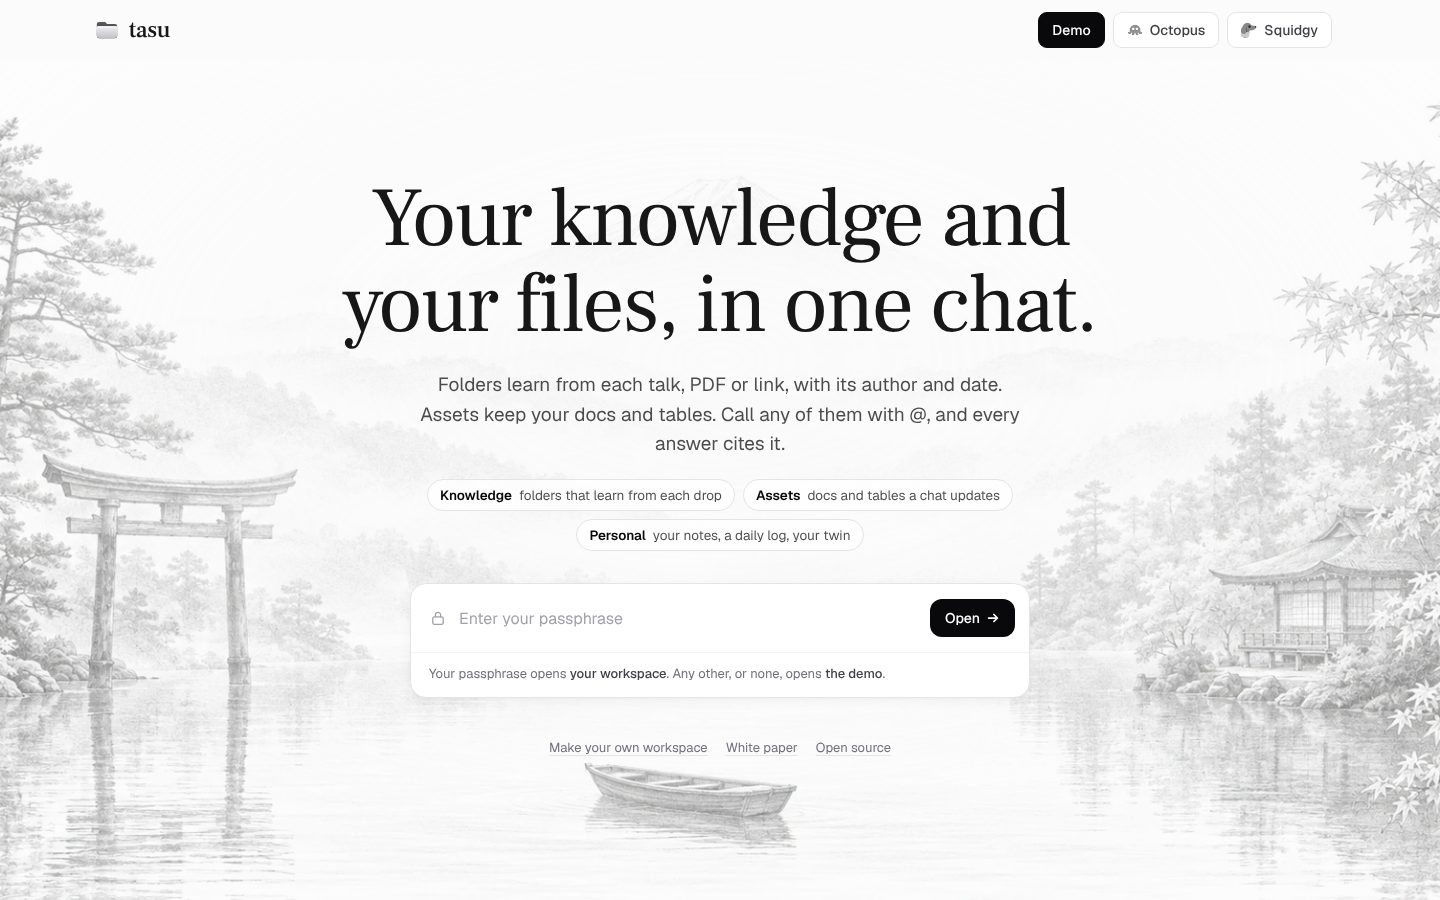
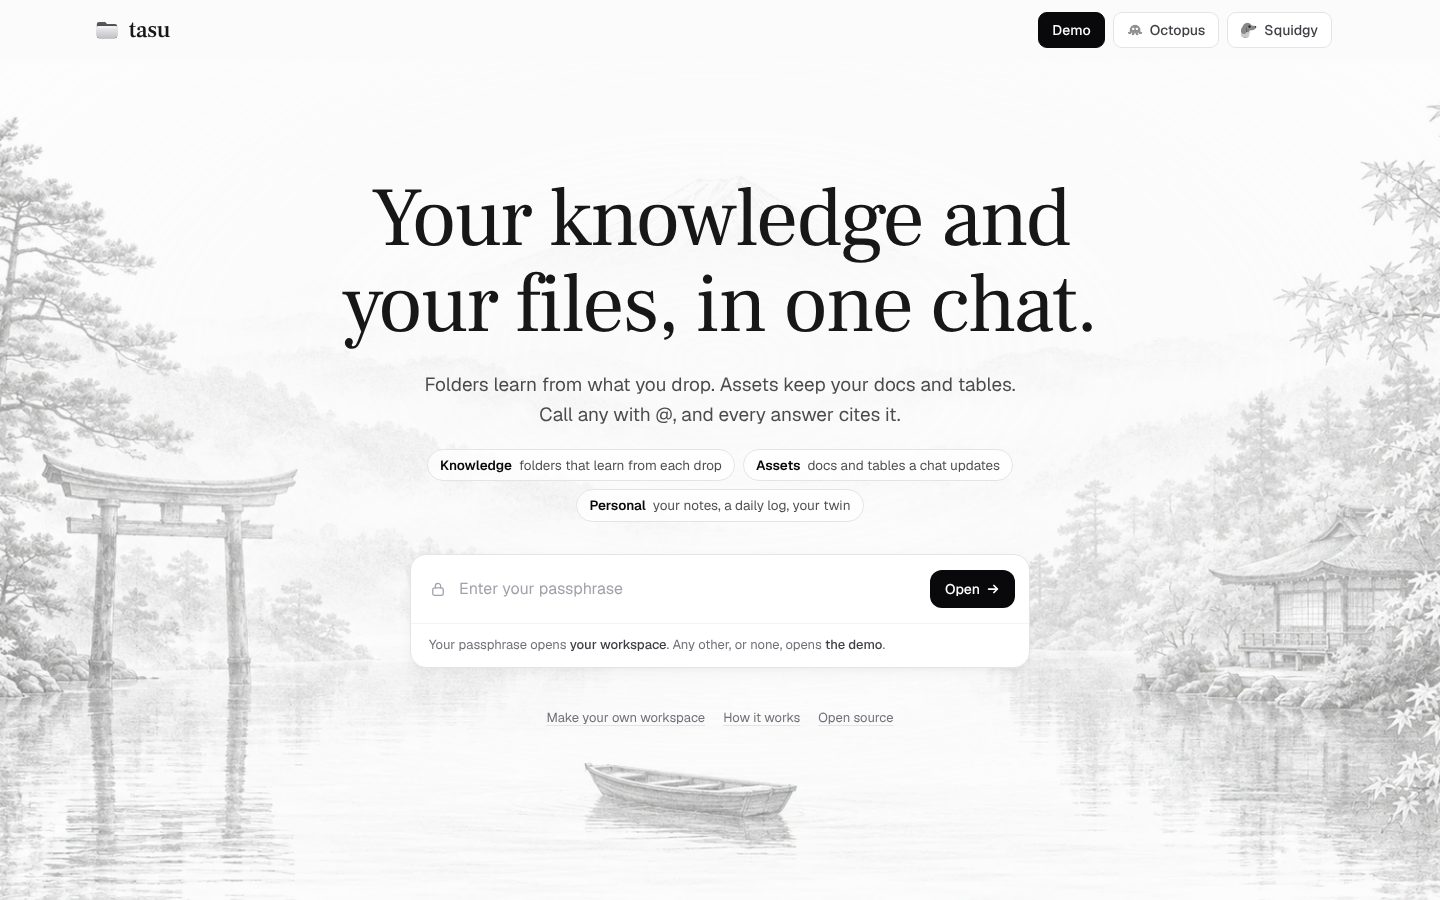
Landing and About page: assets, the personal folder, categories
Landing: a shorter sub line, the three tags open their part of How it works,
and White paper reads How it works. About: a new title, Figure 1 with
categories and assets, an Assets section, a personal folder section, Whisper
voice, answers in the language asked, the video script, 30 tables, 1,995 checks.

Claude-Session: https://claude.ai/code/session_01NRWPtT3uQhafrf1yBXPVRY

Changed region(s): [[0.2812, 0.4044, 0.7188, 0.6222], [0.3125, 0.6222, 0.625, 0.84], [0.625, 0.6222, 0.7188, 0.7467]]

diff --git a/app/about.html b/app/about.html
@@ -4,10 +4,10 @@
 <meta charset="utf-8">
 <meta name="viewport" content="width=device-width, initial-scale=1, viewport-fit=cover">
 <title>Tasu: the white paper</title>
-<meta name="description" content="How Tasu compiles the sources you trust into positions you can question: the model, Drop, Ask, clashes, the limits that keep it fast, and who holds your data.">
+<meta name="description" content="How Tasu compiles the sources you trust into positions you can question: the model, Drop, Ask, assets, the personal folder, clashes, the limits that keep it fast, and who holds your data.">
 <meta name="theme-color" content="#fafafa">
 <meta property="og:title" content="Tasu: the white paper">
-<meta property="og:description" content="The model, the two pipelines, and the limits that keep a folder fast at any size.">
+<meta property="og:description" content="The model, the two pipelines, assets, the personal folder, and the limits that keep a folder fast at any size.">
 <meta property="og:image" content="https://tasu.ai/og.jpg?v=2">
 <meta property="og:url" content="https://tasu.ai/about">
 <meta name="twitter:card" content="summary_large_image">
@@ -92,6 +92,7 @@
   figcaption b{ color:var(--ice-70); font-weight:600; }
 
   /* The model, one level inside the next. */
+  .tree + .tree{ margin-top:8px; }
   .tree{ display:flex; flex-wrap:wrap; align-items:center; gap:8px; padding:18px; border-radius:18px; border:1px solid var(--line); background:var(--card); }
   .tree span{ padding:7px 12px; border-radius:10px; border:1px solid var(--line-2); font-size:14px; font-weight:600; color:var(--ice); background:var(--ink-2); }
   .tree i{ font-style:normal; color:var(--ice-45); }
@@ -176,13 +177,14 @@
 
 <main class="paper">
   <p class="kicker">White paper</p>
-  <h1>Tasu: the knowledge you choose, <em>organized.</em></h1>
-  <p class="meta"><span>Jeremy Lasne</span><span>September 2026</span><span>Version 1.0</span></p>
+  <h1>Tasu: your knowledge and your files, <em>in one chat.</em></h1>
+  <p class="meta"><span>Jeremy Lasne</span><span>October 2026</span><span>Version 1.1</span></p>
 
   <div class="abstract">
     <b>Abstract</b>
     <p>Tasu turns the sources you trust into positions you can question. Each source is read once. Its ideas are filed under concepts, and every claim carries an author and a date.
-      A question reads those compiled concepts and names who said what. This paper describes the model, the two pipelines, how clashes get settled, and the limits that keep a brain fast at any size.</p>
+      A question reads those compiled concepts and names who said what. Assets keep your documents and tables beside them, and a personal folder keeps your own words.
+      This paper describes the model, the two pipelines, the assets, the personal folder, how clashes get settled, and the limits that keep a brain fast at any size.</p>
   </div>
 
   <nav class="toc" aria-label="Contents">
@@ -192,6 +194,8 @@
       <li><a href="#model">The model</a></li>
       <li><a href="#drop">Drop</a></li>
       <li><a href="#ask">Ask</a></li>
+      <li><a href="#assets">Assets</a></li>
+      <li><a href="#personal">The personal folder</a></li>
       <li><a href="#clashes">Clashes</a></li>
       <li><a href="#fast">Why it stays fast</a></li>
       <li><a href="#guarantees">Guarantees</a></li>
@@ -222,19 +226,24 @@
 
   <section id="model">
     <h2>The model</h2>
-    <p>Five things make up a brain.</p>
+    <p>Seven things make up a workspace.</p>
     <figure>
-      <div class="tree" aria-label="Workspace, then brain, then concept, then evidence, fed by sources">
-        <span>Workspace</span><i>›</i><span>Folder</span><i>›</i><span>Concept</span><i>›</i><span>Evidence</span><i>‹</i><span class="src">Source</span>
+      <div class="tree" aria-label="Workspace, then category, then folder, then concept, then evidence, fed by sources; a category also holds assets">
+        <span>Workspace</span><i>›</i><span>Category</span><i>›</i><span>Folder</span><i>›</i><span>Concept</span><i>›</i><span>Evidence</span><i>‹</i><span class="src">Source</span>
       </div>
-      <figcaption><b>Figure 1.</b> Each level holds the next. Sources feed evidence into concepts, in any brain of the workspace.</figcaption>
+      <div class="tree" aria-label="A category also holds assets, each made of sections or rows">
+        <span>Category</span><i>›</i><span>Asset</span><i>›</i><span>Section or row</span>
+      </div>
+      <figcaption><b>Figure 1.</b> Each level holds the next. Sources feed evidence into concepts, in any folder of the workspace. Assets are kept as they are.</figcaption>
     </figure>
     <ul>
-      <li><b>Workspace.</b> Holds brains and chats. It sees nothing of the other workspaces.</li>
+      <li><b>Workspace.</b> Holds folders, assets and chats. It sees nothing of the other workspaces.</li>
+      <li><b>Category.</b> A name such as Wealth or Business. Each folder and each asset sits in one, or in none. One click on a category asks all it holds.</li>
       <li><b>Folder.</b> A subject such as Health, a person whose views are dated so drift shows, or a personal folder that keeps your own words. Each folder has a one-line scope.</li>
       <li><b>Concept.</b> One idea with one position. It holds a summary line, its evidence, its data points, its open clashes and its links.</li>
       <li><b>Evidence.</b> One claim: its date, its author, the claim in a sentence, and the source it came from.</li>
       <li><b>Source.</b> A link, a title, an author, a date and the brains it fed. Its note keeps the extraction: topics, figures and exact quotes. The raw text stays out.</li>
+      <li><b>Asset.</b> A document, a table, a page or a web page you keep whole. A chat reads it and proposes changes. It feeds no concept.</li>
     </ul>
     <figure>
       <article class="concept">
@@ -303,8 +312,41 @@
       </div>
       <figcaption><b>Figure 3.</b> An answer in its shape. The names and figures are placeholders.</figcaption>
     </figure>
-    <p>You can also talk. A mic next to send uses the free speech service built into Safari on iPhone and Mac, Chrome and Edge, and writes your words as you speak.</p>
-    <p>The brains are written in English, and answers come back in English. A question in another language still finds its concepts, because routing works on meaning and the search terms are translated.</p>
+    <p>You can also talk. A mic next to send writes your words with Whisper large-v3 turbo, in 27 languages, for about $0.04 an hour of talking. The browser's free voice input stays one tap away in Settings.</p>
+    <p>The brains are written in English. Answers come back in the language of the question, or in English when Settings says so. A question in another language still finds its concepts, because routing works on meaning and the search terms are translated.</p>
+    <p>A chat reads what you pick: folders and assets ticked in the side list or the chat bar, a whole category, or names typed after @, such as <code>@Pricing</code>, <code>@cm-deal</code> or <code>@All Wealth</code>.</p>
+  </section>
+
+  <section id="assets">
+    <h2>Assets</h2>
+    <p>An asset is a file you keep whole: a Word, PDF, text, Markdown, HTML, Excel or CSV file up to 30 MB, a web page read from its link, or a blank document, page or table. Files are read in your browser.</p>
+    <div class="tw"><table>
+      <thead><tr><th>Asset</th><th>Read whole up to</th><th>Past that</th></tr></thead>
+      <tbody>
+        <tr><td>Table</td><td>120,000 characters, about 300 rows of 30 columns</td><td>A filter and totals run over every row, up to 40,000 rows</td></tr>
+        <tr><td>Document</td><td>60,000 characters, about 20 pages</td><td>The 8 sections that bear on the question, up to 4,000 pages</td></tr>
+        <tr><td>Web page</td><td>60,000 characters</td><td>Read again in one tap</td></tr>
+      </tbody>
+    </table></div>
+    <ul>
+      <li><b>Nothing changes without you.</b> A chat proposes a change with the words before and after, or a new asset with what it will hold. Apply, Turn down, then Undo.</li>
+      <li><b>Versions.</b> A file dropped under a name an asset holds becomes its new version. The one before is kept for Undo, and keeps its category.</li>
+      <li><b>A text, written out.</b> A pitch, an email or a plan asked of an asset comes back whole in the answer, ready to copy.</li>
+      <li><b>Up to 4 in one message,</b> beside the folders ticked. A question on a 300-row table costs about $0.002 on the default model.</li>
+    </ul>
+  </section>
+
+  <section id="personal">
+    <h2>The personal folder</h2>
+    <p>A third kind of folder, next to subjects and people. You talk to it, and it keeps what you said. Its own chat is its only reader.</p>
+    <ul>
+      <li><b>Dated notes.</b> Each message becomes up to 3 notes, signed "You". A change of mind keeps the old view with its date.</li>
+      <li><b>People.</b> A card for each person you name: facts, history a year at a time, their people, and what is still open with them.</li>
+      <li><b>An interview.</b> 335 questions in 17 chapters, each under 30 seconds. It skips what your notes already answer.</li>
+      <li><b>A daily log.</b> 8 questions about the day, one at a time, then a 60-second video script from the answers, checked against 8 copy rules.</li>
+      <li><b>A twin.</b> It answers as you, with your own rules, and a test of 5 situations compares its replies with yours.</li>
+      <li><b>Your folders and assets.</b> Tick folders beside it and it calls them. Name an asset and it fills it from your notes, as a proposal to apply.</li>
+    </ul>
   </section>
 
   <section id="clashes">
@@ -377,12 +419,12 @@
   <section id="out">
     <h2>What comes out</h2>
     <ul>
-      <li><b>One-pagers.</b> A brain or a question becomes a summary, an 8-question quiz, a deep dive of 500 to 800 words, 3 to 5 use cases, or your own type. In English, French, Spanish, German, Italian, Portuguese, Dutch, Japanese or Chinese.</li>
+      <li><b>One-pagers.</b> Folders, a category, up to 4 assets or a question become a summary, an 8-question quiz, a deep dive of 500 to 800 words, 3 to 5 use cases, or your own type. In English, French, Spanish, German, Italian, Portuguese, Dutch, Japanese or Chinese.</li>
       <li><b>A health score out of 10.</b> Variety of authors weighs 3, depth weighs 3 (the share of concepts with 2 sources or more), freshness weighs 2 and open clashes weigh 2. Each brain is scored against your best one, with the one move that closes the gap.</li>
       <li><b>A connector for Claude.</b> Through MCP, 7 tools read the brains and 6 more feed them on a signed address. The client's own model does the thinking. 120 calls per 10 minutes per address.</li>
       <li><b>A weekly digest.</b> Mondays at 06:00 UTC: the sources read, new concepts, concepts fed again and open clashes.</li>
       <li><b>An export.</b> One markdown file with every brain, concept, piece of evidence and source.</li>
-      <li><b>A personal brain.</b> It files your own words as dated notes and talks to you as "you". When another brain holds something that bears on what you said, it brings it up on its own and names it: your Health brain.</li>
+      <li><b>A video script.</b> From the daily log: Situation, Desire, Conflict, Change and Result in 60 seconds, opened by your series line. Redo it with a comment, or from the chat.</li>
       <li><b>Chats that stay.</b> Saved on the server for 30 days after their last use, with 5 pins.</li>
     </ul>
   </section>
@@ -391,11 +433,11 @@
     <h2>Stack and tests</h2>
     <div class="tw"><table>
       <tbody>
-        <tr><td>Server</td><td>Convex functions and database: 16 tables, every route behind one gate.</td></tr>
+        <tr><td>Server</td><td>Convex functions and database: 30 tables, every route behind one gate.</td></tr>
         <tr><td>Pages</td><td>Plain HTML. The app is one file. PDF and Word files are parsed in the browser.</td></tr>
         <tr><td>Models</td><td>Any model on OpenRouter, through one call wrapper. The owner picks one in the app.</td></tr>
         <tr><td>Portable</td><td>The same brain runs as markdown files under 41 rules, as a Claude Code skill.</td></tr>
-        <tr><td>Tests</td><td>9 suites: the pages, the connector, the store, one-pagers, asking, linking, the health score, the personal brain, and the app driven in a real browser.</td></tr>
+        <tr><td>Tests</td><td>12 suites and 1,995 checks: the build, the pages, the connector, the store, one-pagers, asking, linking, the health score, the personal folder, assets, reading, voice, and the app driven in a real browser.</td></tr>
         <tr><td>License</td><td>MIT. <a href="https://github.com/jlasne/brain">The code is on GitHub.</a></td></tr>
       </tbody>
     </table></div>
@@ -417,7 +459,7 @@
     </ol>
   </section>
 
-  <p class="end">Built in September 2026 by <a href="https://www.jeremylasne.com">Jeremy Lasne</a>. <a href="/">Try the demo</a>, or read <a href="https://github.com/jlasne/brain">the code</a>.</p>
+  <p class="end">Built in September and October 2026 by <a href="https://www.jeremylasne.com">Jeremy Lasne</a>. <a href="/">Try the demo</a>, or read <a href="https://github.com/jlasne/brain">the code</a>.</p>
 </main>
 
 <footer><div class="in">

diff --git a/app/index.html b/app/index.html
@@ -4,10 +4,10 @@
 <meta charset="utf-8">
 <meta name="viewport" content="width=device-width, initial-scale=1, viewport-fit=cover">
 <title>Tasu: your knowledge and your files, in one chat</title>
-<meta name="description" content="Folders learn from each talk, PDF or link, with its author and date. Assets keep your docs and tables. Call any of them with @, and every answer cites it.">
+<meta name="description" content="Folders learn from what you drop. Assets keep your docs and tables. Call any with @, and every answer cites it.">
 <meta name="theme-color" content="#fafafa">
 <meta property="og:title" content="Tasu: your knowledge and your files, in one chat">
-<meta property="og:description" content="Folders learn from each talk, PDF or link, with its author and date. Assets keep your docs and tables. Call any of them with @, and every answer cites it.">
+<meta property="og:description" content="Folders learn from what you drop. Assets keep your docs and tables. Call any with @, and every answer cites it.">
 <meta property="og:image" content="https://tasu.ai/og.jpg?v=2">
 <meta property="og:image:width" content="1280">
 <meta property="og:image:height" content="640">
@@ -82,8 +82,9 @@
   /* ---- the one field ---- */
   /* What a chat can use, in three: the folders, the assets, the personal folder. */
   .points{ list-style:none; margin-top:20px; display:flex; flex-wrap:wrap; justify-content:center; gap:8px; max-width:680px; }
-  .points li{ display:flex; align-items:baseline; gap:7px; padding:6px 12px; border:1px solid var(--line); border-radius:999px; background:rgba(255,255,255,.72);
-    font:400 13.5px/1.35 var(--sans); color:var(--sub); }
+  .points a{ display:flex; align-items:baseline; gap:7px; padding:6px 12px; border:1px solid var(--line); border-radius:999px; background:rgba(255,255,255,.72);
+    font:400 13.5px/1.35 var(--sans); color:var(--sub); transition:border-color .15s var(--ease), background .15s var(--ease); }
+  .points a:hover{ border-color:var(--hint); background:#fff; }
   .points b{ font-weight:600; color:var(--ink); }
   .card{ margin-top:32px; width:100%; max-width:620px; background:var(--card); border:1px solid var(--line); border-radius:16px; text-align:left;
     box-shadow:0 4px 16px -2px rgba(0,0,0,.05), 0 2px 6px rgba(0,0,0,.025); transition:box-shadow .2s var(--ease), border-color .2s var(--ease); }
@@ -155,11 +156,11 @@
   <div class="bg" aria-hidden="true"></div>
   <div class="in-hero">
     <h1 class="rise">Your knowledge and your files, in one chat.</h1>
-    <p class="sub rise" style="--d:80">Folders learn from each talk, PDF or link, with its author and date. Assets keep your docs and tables. Call any of them with @, and every answer cites it.</p>
+    <p class="sub rise" style="--d:80">Folders learn from what you drop. Assets keep your docs and tables. Call any with @, and every answer cites it.</p>
     <ul class="points rise" style="--d:120" aria-label="What a chat can use">
-      <li><b>Knowledge</b>folders that learn from each drop</li>
-      <li><b>Assets</b>docs and tables a chat updates</li>
-      <li><b>Personal</b>your notes, a daily log, your twin</li>
+      <li><a href="/about#drop"><b>Knowledge</b>folders that learn from each drop</a></li>
+      <li><a href="/about#assets"><b>Assets</b>docs and tables a chat updates</a></li>
+      <li><a href="/about#personal"><b>Personal</b>your notes, a daily log, your twin</a></li>
     </ul>
     <form class="card rise" style="--d:160" id="enter" autocomplete="on">
       <div class="row">
@@ -172,7 +173,7 @@
     <p class="say" id="say" role="status"></p>
     <p class="more rise" style="--d:240">
       <button type="button" id="makeOpen">Make your own workspace</button>
-      <a href="/about">White paper</a>
+      <a href="/about">How it works</a>
       <a href="https://github.com/jlasne/brain">Open source</a>
     </p>
   </div>

diff --git a/README.md b/README.md
@@ -6,11 +6,11 @@
 
 **Your knowledge and your files, in one chat.**
 
-Folders learn from each talk, PDF or link, with its author and date. Assets keep your docs and tables. Call any of them with @, and every answer cites it.
+Folders learn from what you drop. Assets keep your docs and tables. Call any with @, and every answer cites it.
 
 [**Open tasu.ai**](https://tasu.ai) &nbsp;·&nbsp; [Read the white paper](https://tasu.ai/about) &nbsp;·&nbsp; [Run your own](#run-your-own)
 
-<img alt="1991 checks passing" src="https://img.shields.io/badge/checks-1991%20passing-52525b?style=flat-square&labelColor=18181b">
+<img alt="1995 checks passing" src="https://img.shields.io/badge/checks-1995%20passing-52525b?style=flat-square&labelColor=18181b">
 <img alt="Live demo, no sign-up" src="https://img.shields.io/badge/demo-no%20sign--up-52525b?style=flat-square&labelColor=18181b">
 <img alt="Installs on phone and desktop" src="https://img.shields.io/badge/app-phone%20and%20desktop-52525b?style=flat-square&labelColor=18181b">
 <img alt="MIT license" src="https://img.shields.io/badge/license-MIT-52525b?style=flat-square&labelColor=18181b">
@@ -254,7 +254,7 @@ The app's source sits in `web/chat/`, one file a screen. `npm run build` joins i
 
 ```bash
 npm run build     # web/chat into app/chat.html
-npm run check     # the build first, then 1991 checks
+npm run check     # the build first, then 1995 checks
 npm run deploy    # the server, to Convex
 ```
 
@@ -268,7 +268,7 @@ skill/brain/    the same behaviour, as a Claude Code skill
 templates/      the markdown shape of a folder
 ```
 
-`npm run check` runs 1991 checks: the build matches its source, the pages parse and bind, the install manifest and its icons, the Claude connector, the store and its workspaces, one-pagers, asking, linking, the health score, the personal folder, assets, and the app itself in a real browser at 9 screen sizes.
+`npm run check` runs 1995 checks: the build matches its source, the pages parse and bind, the install manifest and its icons, the Claude connector, the store and its workspaces, one-pagers, asking, linking, the health score, the personal folder, assets, and the app itself in a real browser at 9 screen sizes.
 
 <br>
 
